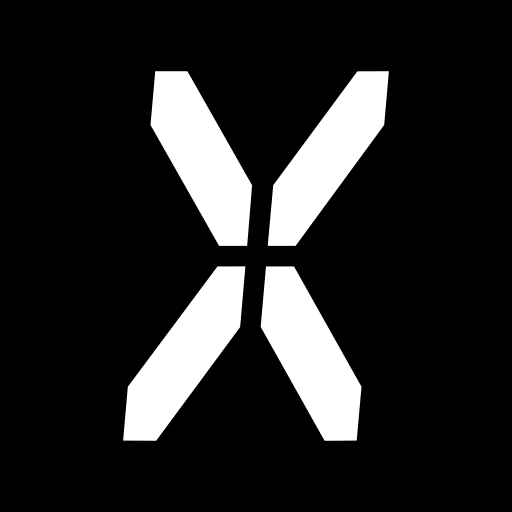
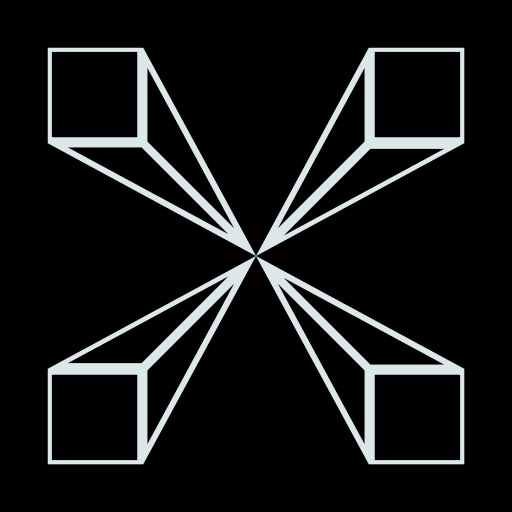
图标更新
1. tab页图标
2. 网页logo
3. 联系方式图标

diff --git a/src/components/Monogram/Monogram.js b/src/components/Monogram/Monogram.js
@@ -18,7 +18,15 @@ export const Monogram = forwardRef(({ highlight, className, ...props }, ref) => 
     >
       <defs>
         <clipPath id={clipId}>
-          <path d="M16.525 28.462l7.18-18.35.003-.001 9.72 18.442a.838.838 0 001.524-.093l3.39-8.824a.846.846 0 00-.04-.686L30.307 3.605A6.698 6.698 0 0024.367 0h-4.6a.84.84 0 00-.74 1.23l3.63 6.887-3.655 9.15-7.12-13.662A6.698 6.698 0 005.942 0h-4.6a.842.842 0 00-.748 1.23L15 28.554a.839.839 0 001.524-.092zM42.392 8.806a.835.835 0 00.387-.446v.001l2.67-7.23a.838.838 0 00-.785-1.129h-6.578a.837.837 0 00-.736 1.238l3.907 7.226c.22.41.729.56 1.135.34z" />
+          {/* Nav Log Here */}
+          <path class="st0" d="M8.1,0.1v6.6l14.4,7.8L14.7,0.1H8.1z M8.4,0.4h5.9v5.9H8.4V0.4z M9.5,7h5.1l6,6L9.5,7z M15,1.5l6,11.1l-6-6
+		V1.5z"/>
+	<path class="st0" d="M36.9,0.1h-6.6l-7.8,14.4l14.4-7.8V0.1z M30.7,0.4h5.9v5.9h-5.9V0.4z M30,1.5v5.1l-6,6L30,1.5z M24.4,13.1l6-6
+		h5.1L24.4,13.1z"/>
+	<path class="st0" d="M8.1,28.9h6.6l7.8-14.4L8.1,22.3V28.9z M14.3,28.6H8.4v-5.9h5.9V28.6z M15,27.5v-5.1l6-6L15,27.5z M20.6,15.9
+		l-6,6H9.5L20.6,15.9z"/>
+	<path class="st0" d="M36.9,28.9v-6.6l-14.4-7.8l7.8,14.4H36.9z M36.6,28.6h-5.9v-5.9h5.9V28.6z M35.5,22h-5.1l-6-6L35.5,22z
+		 M30,27.5l-6-11.1l6,6V27.5z"/>
         </clipPath>
       </defs>
       <rect clipPath={`url(#${clipId})`} width="100%" height="100%" />

diff --git a/src/components/Icon/Icon.js b/src/components/Icon/Icon.js
@@ -7,14 +7,14 @@ import ChevronRight from './svg/chevron-right.svg';
 import Close from './svg/close.svg';
 import Copy from './svg/copy.svg';
 import Error from './svg/error.svg';
-import Figma from './svg/figma.svg';
+import Behance from './svg/behance.svg';
 import Github from './svg/github.svg';
 import Link from './svg/link.svg';
 import Menu from './svg/menu.svg';
 import Pause from './svg/pause.svg';
 import Play from './svg/play.svg';
 import Send from './svg/send.svg';
-import Twitter from './svg/twitter.svg';
+import Instagram from './svg/instagram.svg';
 
 export const icons = {
   arrowLeft: ArrowLeft,
@@ -24,14 +24,14 @@ export const icons = {
   close: Close,
   copy: Copy,
   error: Error,
-  figma: Figma,
+  behance: Behance,
   github: Github,
   link: Link,
   menu: Menu,
   pause: Pause,
   play: Play,
   send: Send,
-  twitter: Twitter,
+  instagram: Instagram,
 };
 
 export const Icon = ({ icon, className, ...rest }) => {

diff --git a/src/layouts/Home/Profile.js b/src/layouts/Home/Profile.js
@@ -23,7 +23,7 @@ const ProfileText = ({ visible, titleId }) => (
     <Text className={styles.description} data-visible={visible} size="l" as="p">
       我是 徐海翔, 最近在{' '}<Link href="https://www.lixiang.com/one.html">理想汽车</Link>
       常州总部 担任测试工程师. 
-      My projects include UX design, UI
+      我的项目作品包含：服装设计、UI/UX设计、视频创作、3D建模与渲染 以及 其他视觉创意作品.
       animations, and icon illustration. Being comfortable with code allows me to rapidly
       prototype and validate experiences. If you’re interested in the tools and software I
       use check out my <Link href="/uses">uses page</Link>.

diff --git a/src/layouts/Home/Home.js b/src/layouts/Home/Home.js
@@ -111,10 +111,10 @@ export const Home = () => {
         sectionRef={projectTwo}
         visible={visibleSections.includes(projectTwo.current)}
         index={2}
-        title="Video game progress tracking"
-        description="Design and development for a video game tracking app built in React Native"
-        buttonText="View website"
-        buttonLink="https://gamestack.hamishw.com"
+        title="街头风格服装设计"
+        description="对街头新锐品牌进行二次创作，融入自己的理解与并尝试创新"
+        buttonText="查看更多"
+        buttonLink="/404"
         model={{
           type: 'phone',
           alt: 'App login screen',

diff --git a/src/components/Navbar/navData.js b/src/components/Navbar/navData.js
@@ -21,16 +21,16 @@ export const socialLinks = [
   {
     label: 'Instagram',
     url: 'https://www.instagram.com/exksme/',
-    icon: 'twitter',
+    icon: 'instagram',
   },
   {
-    label: 'Figma',
-    url: '/404',
-    icon: 'figma',
+    label: 'Behance',
+    url: 'https://www.behance.net/84230415845db',
+    icon: 'behance',
   },
   {
     label: 'Github',
-    url: '/404',
+    url: 'https://github.com/EXKSME',
     icon: 'github',
   },
 ];

diff --git a/README.md b/README.md
@@ -51,7 +51,8 @@ npm run deploy:api
 ```
 
 ## 待办事项
-- 主页左下角图标更新：ins、网易云、【？】
+- 主页左下角图标更新：ins、【behance】图标、网易云
+- 【use page】【make mods】两个页面的连接
 - 把原作者的作品都替换了
 - 左上角logo
 - tab页logo、标题名称
